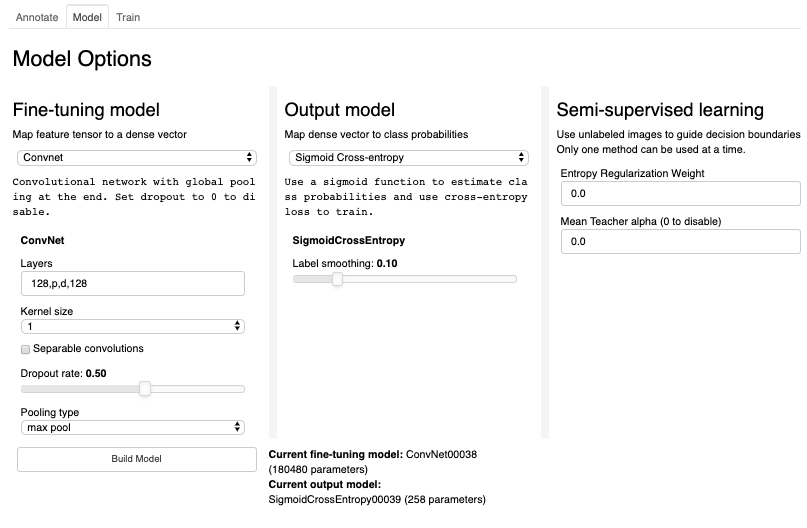
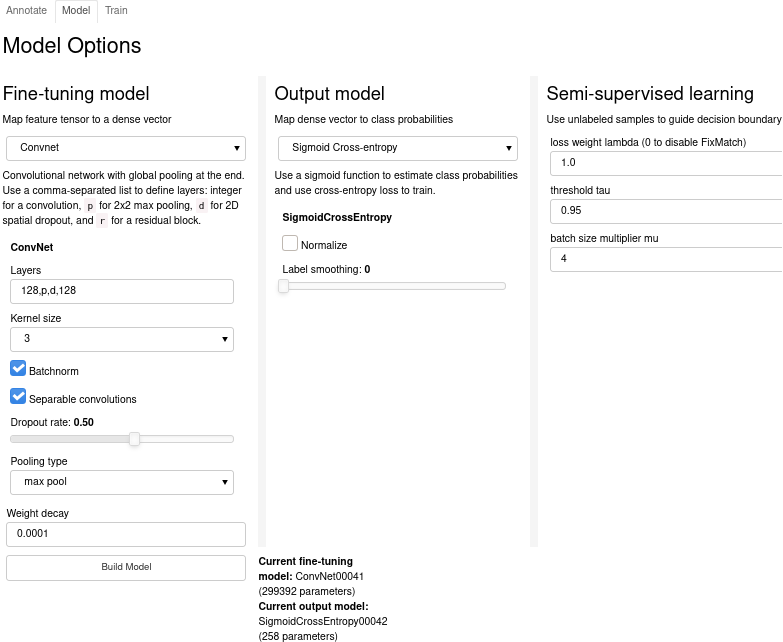
update docs

Changed region(s): [[0.0, 0.0, 1.0, 1.0], [0.2759, 0.6061, 0.3065, 0.6364], [0.2759, 0.2121, 0.3065, 0.2424]]

diff --git a/docs/gui.md b/docs/gui.md
@@ -93,13 +93,12 @@ Once you've got some images labeled, design a model.
   * Convnet: a configurable convolutional neural network with ReLU activations and a global max or average pool at the end.
 * **Output-model:**  inputs feature vector and returns class probabilities.
   * Sigmoid: Output a logistic function and train with (masked) cross-entropy loss. Label smoothing is a standard cheap regularization technique- using a value of 0.1 will change a label of 1 to a label of 0.95 for training purposes.
-  * Cosine outputs are also available- while they've produced impressive results in low-shot multiclass problems, I don't find that I'm getting impressive results on single-class multilabel problems. Your mileage may vary. Trains with (masked) mean average error loss.
   * Focal Loss: still using sigmoid outputs, but training under [focal loss](https://arxiv.org/abs/1708.02002) to place more emphasis on hard examples.
-* **Semi-supervised learning:** during training, these techniques will add an additional loss on batches of unlabeled images. **Right now patchwork can only apply one at a time. So your value for the other should be zero.**
-  * Entropy regularization: (excellent review paper [here](http://papers.nips.cc/paper/7585-realistic-evaluation-of-de))Bias the decision boundary toward confident predictions by penalizing the output entropy on unlabeled images. 
-  * Mean Teacher: ([paper here](https://arxiv.org/abs/1703.01780)) this is *consistency regularization;* it penalizes differing outputs from different runs through a stochastic network (so make sure you're using this with dropout).
+* **Semi-supervised learning:** during training, these techniques will add an additional loss on batches of unlabeled images. The [FixMatch algorithm](https://arxiv.org/abs/2001.07685) is used for semi-supervised training (modified for multihot outputs).
+  * FixMatch applies strong regularization- the GUI object has a `strong_aug` kwarg you can use to customize this.
+  * There are three hyperparameters to set- `lambda` is the weight applied to FixMatch loss (0 to disable), `tau` sets the confidence that the model has to have on an example before it applies the loss (so for `tau=0.95` only model predictions above 0.95 or below 0.05 are applied), and `mu` is a batch size multiplier (so for `batch_size=32` and `mu=4`, each step will include a minibatch of 128 unlabeled patches).
 
-I recommend starting with Global Pooling/maxpool for the fine-tuning network, sigmoid output with label smoothing, and no semi-supervised learning to build a quick benchmark model- then iterate using the model's weak points.
+I recommend starting with Global Pooling/maxpool for the fine-tuning network, sigmoid output with normalization or label smoothing, and no semi-supervised learning to build a quick benchmark model- then iterate using the model's weak points.
 
 ![](gui_model.png)
 
